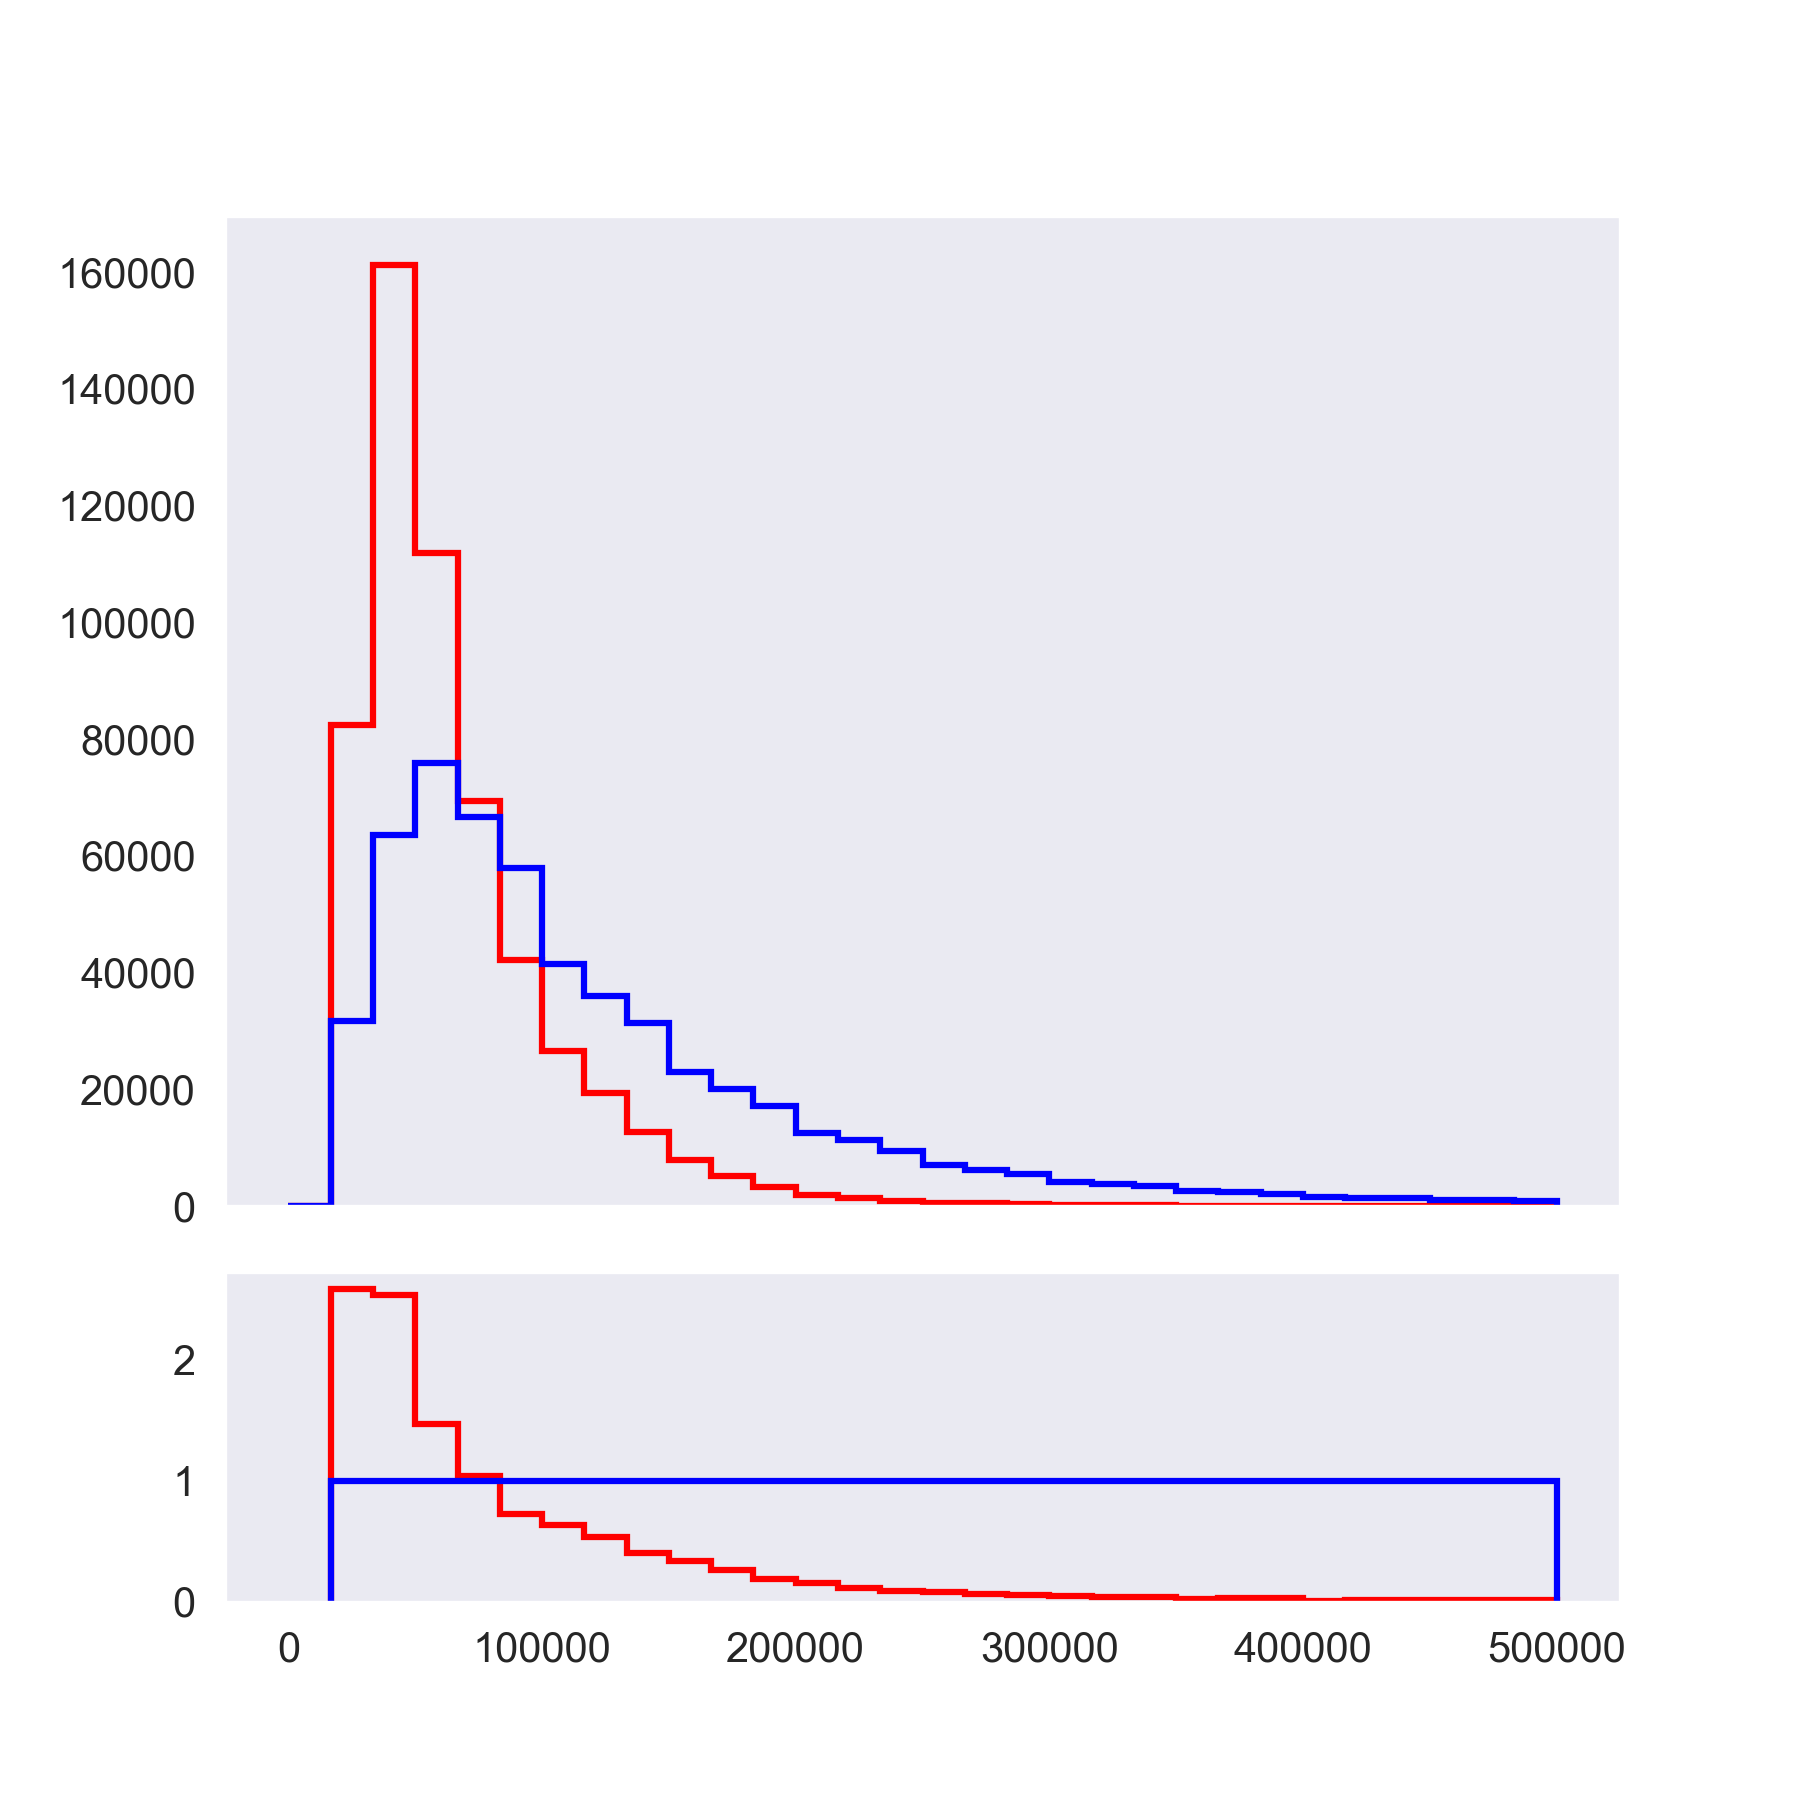
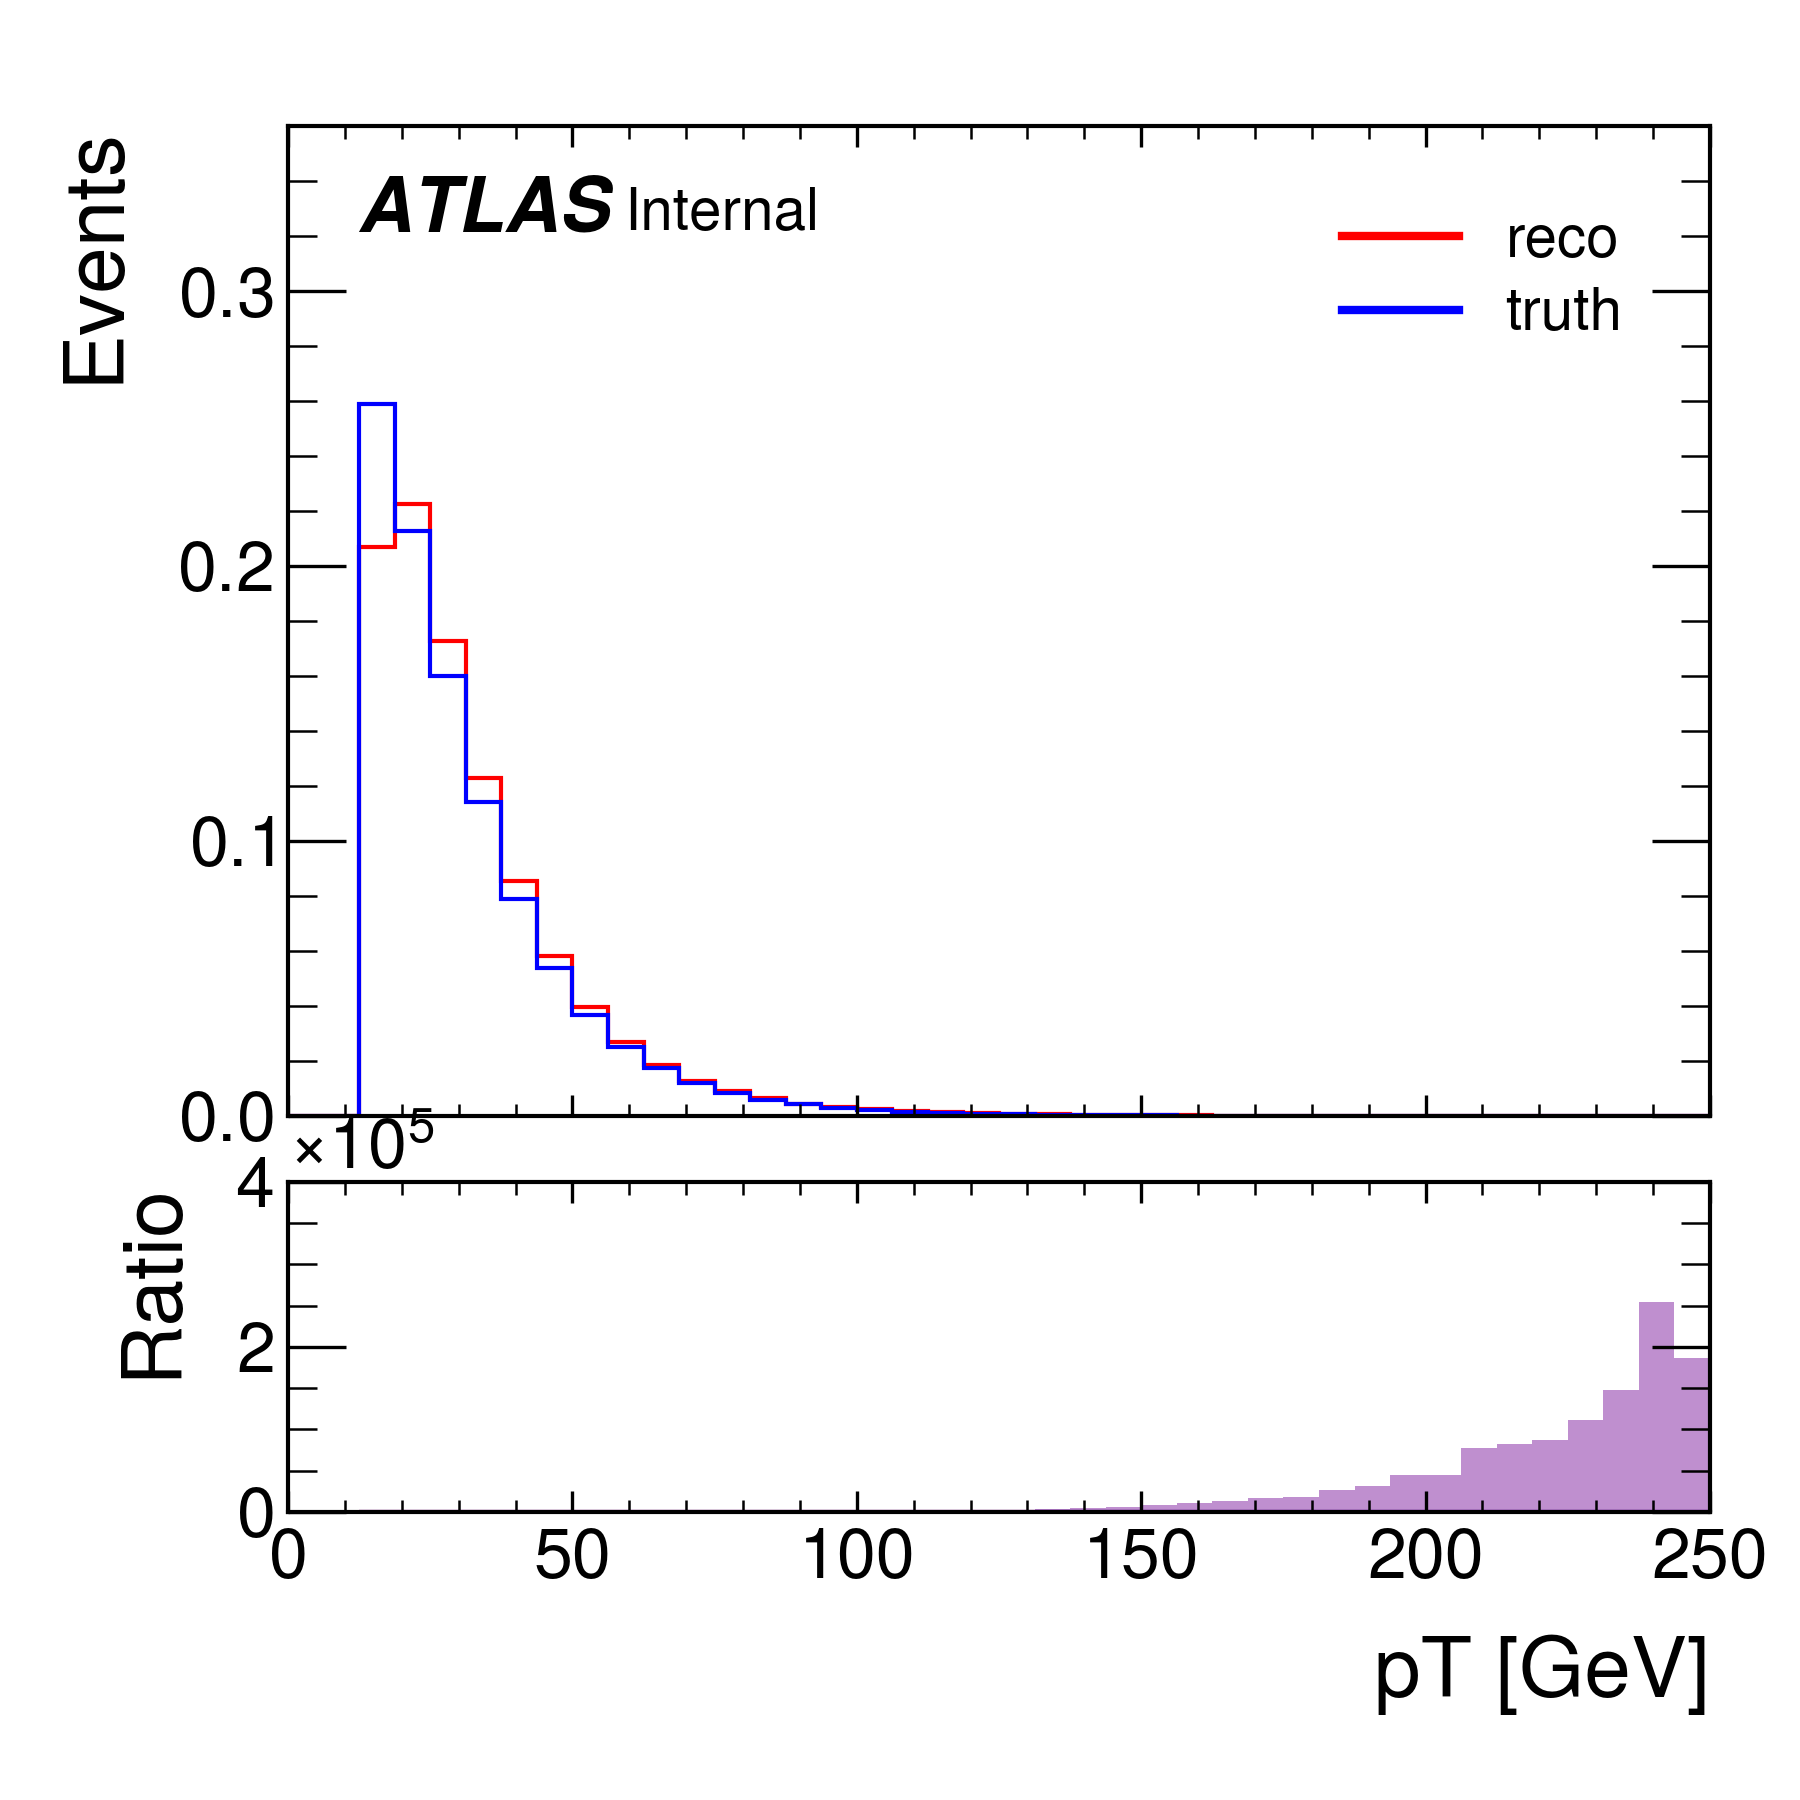
Added axes specifics. Ratio uncertainty for normalised histograms is still an issue

diff --git a/Uproot_based/plot_macros/Plotting.py b/Uproot_based/plot_macros/Plotting.py
@@ -5,6 +5,8 @@ import numpy as np
 from hist.intervals import ratio_uncertainty
 import boost_histogram as bh
 import uproot
+from matplotlib.lines import Line2D
+
 
 from Hist_Wrapper import Histogram_Wrapper, Hist_Object
 
@@ -68,6 +70,10 @@ class HEP_Plot:
             self.Initialise_Seaborn_Plot(**kwargs)
 
 
+    def Customise_Legend(self):
+        pass
+
+
     @staticmethod
     def Steps_Filled_Erros(ax,Hist_Ob):#Histogram,error_up,error_down): # Need to pass error up and error down
 
@@ -75,16 +81,15 @@ class HEP_Plot:
 
         Histogram = Hist_Ob.Histogram 
 
-        hep.histplot(Histogram, ax=ax, stack=False, histtype='step',color=Hist_Ob.colour)
+        hep.histplot(Histogram, ax=ax, stack=False, histtype='step',color=Hist_Ob.colour,label=Hist_Ob.label,lw=1.0)
 
-
+        # Not used
         errps = {'hatch':'////', 'facecolor':'blue', 'lw': 0, 'alpha': 0.4}
-        # errps = {'alpha':0.4}
 
         ax.stairs(
             values=Histogram.values() + Hist_Ob.errors_up,
             baseline=Histogram.values() - Hist_Ob.errors_down,
-            edges=Histogram.axes[0].edges, label='Stat. unc.',fill=True,alpha=0.25,color=Hist_Ob.colour)
+            edges=Histogram.axes[0].edges, fill=True,alpha=0.25,color=Hist_Ob.colour)
 
 
 
@@ -130,11 +135,23 @@ class Ratio_Plot(HEP_Plot):
     @staticmethod
     def Compute_Ratio(hist1,hist2):
         ratio_hist = hist1/hist2
-        ratio_uncertainties = ratio_uncertainty(hist1,hist2,"poisson")
+        ratio_uncertainties = ratio_uncertainty(hist1.view(),hist2.view(),"poisson")
+        # print(ratio_uncertainties)
+        # input()
         return Hist_Object(ratio_hist,ratio_uncertainties)#[0],ratio_uncertainties[1])
+
+    def Axis_Labels(self,dic_of_labels):
+        self.axes[1].set_xlabel(dic_of_labels["x"])
+        self.axes[1].set_ylabel(dic_of_labels["y2"])
+        self.axes[0].set_ylabel(dic_of_labels["y1"])
+
+    def Axis_XTick_Labels(self,labels,**kwargs):
+        # print(self.axes[1].get_xticklabels)
+        # input()
+        self.axes[1].set_xticklabels(labels)
         
 
-    def Make_Plot(self):
+    def Make_Step_Fill_Plot(self):
 
         assert len(self.list_of_histograms) != 0, "No histograms passed to plot" 
 
@@ -144,13 +161,10 @@ class Ratio_Plot(HEP_Plot):
         self.fig = fig
         self.axes = (ax,rax)
 
-
-
         # Select whether to do normalisation
+        legend_elements = []
 
         for H in self.list_of_histograms:
-
-            print(H.branch_name)
 
             if self.Normalised == False:
 
@@ -165,7 +179,12 @@ class Ratio_Plot(HEP_Plot):
                 ratio_obj.Set_Features(colour=H.colour)
                 self.Steps_Filled_Erros(ax=rax,Hist_Ob=ratio_obj)
 
+            # Do the legend part here
+            legend_elements.append(Line2D([0],[0],color=H.colour,lw=2,label=H.label))
 
+        ax.legend(handles=legend_elements)#, loc='center')
+
+        # ax.legend()
         return plt
 
 

diff --git a/Uproot_based/plot_macros/Hist_Wrapper.py b/Uproot_based/plot_macros/Hist_Wrapper.py
@@ -19,6 +19,8 @@ class Hist_Object:
         self.Histogram = Histogram 
         self.errors_up = errors[1]
         self.errors_down = errors[0]
+        # self.colour "black"
+        # self.label = ""
 
         self.Set_Features(**kwargs)
 
@@ -42,6 +44,11 @@ class Histogram_Wrapper:
         self.TTree = tree
         self.branch_name = branch_name
         self.number_of_bins = 26
+        self.normalise = kwargs["normalise"] if "normalise" in kwargs else True
+
+        # Plot features
+        self.colour = kwargs["colour"] if "colour" in kwargs else None
+        self.label  = kwargs["label"]  if "label"  in kwargs else None
 
         # Extract histogram for Uproot file TTree
         self.df = self.Branch2DF(self.TTree,self.branch_name)
@@ -50,15 +57,19 @@ class Histogram_Wrapper:
 
         # Generate boost_histogram, and wrap with errors
         boost_hist = self.Generate_Histogram(self.df,self.binning)
+
+        # print(type(boost_hist.view()))
+        # input()
+
         boost_hist_errors = self.errors(boost_hist)
-        self.UnNorm_Hist = Hist_Object(boost_hist,boost_hist_errors)
+        self.UnNorm_Hist = Hist_Object(boost_hist,boost_hist_errors,colour=self.colour,label=self.label)
        
        # Generate normalised histogram, and wrap with errors
-        self.Norm_Hist    = self.Do_Normalisation(boost_hist)
+        if self.normalise:
+            self.Norm_Hist    = self.Do_Normalisation(boost_hist)
+            self.Norm_Hist.Set_Features(colour=self.colour,label=self.label)
 
-        # Plot features
-        self.colour = kwargs["colour"] if "colour" in kwargs else None
-        self.UnNorm_Hist.colour,self.Norm_Hist.colour = self.colour,self.colour
+        # self.UnNorm_Hist.colour,self.Norm_Hist.colour = self.colour,self.colour
 
 
     def Generate_Binning(self,kwargs):
@@ -112,8 +123,8 @@ class Histogram_Wrapper:
 
         '''Performs normalisation of histogram '''
 
-        Normalised_Histogram     = boost_hist *(1/boost_hist.sum())
-        Normalised_Uncertainties = ratio_uncertainty(boost_hist , boost_hist.sum(),"poisson")
+        Normalised_Histogram     = boost_hist/boost_hist.sum()
+        Normalised_Uncertainties = ratio_uncertainty(boost_hist.view() , boost_hist.sum(),"poisson")
 
         return Hist_Object(Normalised_Histogram,Normalised_Uncertainties)
 

diff --git a/Uproot_based/plot_macros/example.py b/Uproot_based/plot_macros/example.py
@@ -10,20 +10,26 @@ def main():
     file1 = uproot.open("/home/ethan/Documents/Qualification_Task/Full_Tests/ttbar/Inclusive_Smearings/ttbar_LEPTONS_WITH_EFFICIENCY_july25.root")
     tree1 = file1["smeared"]
 
-    binning = np.linspace(0,500e3,31)
+    binning = np.linspace(0,250e3,16)
 
-    H_mu_pt = Histogram_Wrapper(tree1,"mu_pt",binning=binning,colour="red")#,normalise=False)#,AutoBin=True)
-    H_mu_E  = Histogram_Wrapper(tree1,"mu_e" ,binning=binning,colour="blue")#,normalise=False)
+    H_mu_pt = Histogram_Wrapper(tree1,"mu_pt",binning=binning,colour="red" ,label="1",normalise=True)#,AutoBin=True)
+    H_mu_E  = Histogram_Wrapper(tree1,"mu_e" ,binning=binning,colour="blue",label="2",normalise=True)
 
     # Initialise the plot
     x = Ratio_Plot("plot1",list_of_histograms=[H_mu_pt,H_mu_E],divisor=H_mu_E,plot_normalised=False)
-    x.Initalise_Plot_Design("Seaborn")
+    x.Initalise_Plot_Design("ATLAS")
 
     # Returns the plt object so adjustments can be made here
-    plt = x.Make_Plot()
+    plt = x.Make_Step_Fill_Plot()
     x.Add_ATLAS_Label("Internal")
+    x.Axis_Labels({"x": "pT [GeV]","y1":"Events","y2":"Ratio"})
+    x.Axis_XTick_Labels([0,50,100,150,200,250])
+
+    # plt.show()
+    # input()
 
     plt.savefig("plot2_test.png",dpi=300)
+    print("Plot generated and saved.")
 
 
 main()

diff --git a/Uproot_based/plot_macros/exampleQT.py b/Uproot_based/plot_macros/exampleQT.py
@@ -1,0 +1,38 @@
+import numpy as np
+import uproot
+
+from Hist_Wrapper import Histogram_Wrapper
+from Plotting import Ratio_Plot
+
+
+def main():
+
+    file1 = uproot.open("~/Documents/Qualification_Task/TTbar_Samples/ttbar_dec15_reco_even.root")
+    tree1 = file1["reco_even"]
+
+    file2 = uproot.open("~/Documents/Qualification_Task/TTbar_Samples/ttbar_dec15_particleLevel_even.root")
+    tree2 = file2["particleLevel_even"]
+
+    binning = np.linspace(0,500e3,41)
+
+    H_mu_pt = Histogram_Wrapper(tree1,"mu_pt",binning=binning,colour="red" ,label="reco",normalise=True)#,AutoBin=True)
+    H_mu_E  = Histogram_Wrapper(tree2,"mu_pt" ,binning=binning,colour="blue",label="truth",normalise=True)
+
+    # Initialise the plot
+    x = Ratio_Plot("plot1",list_of_histograms=[H_mu_pt,H_mu_E],divisor=H_mu_E,plot_normalised=True)
+    x.Initalise_Plot_Design("ATLAS")
+
+    # Returns the plt object so adjustments can be made here
+    plt = x.Make_Step_Fill_Plot()
+    x.Add_ATLAS_Label("Internal")
+    x.Axis_Labels({"x": "pT [GeV]","y1":"Events","y2":"Ratio"})
+    x.Axis_XTick_Labels([0,50,100,150,200,250])
+
+    # plt.show()
+    # input()
+
+    plt.savefig("plot2_test.png",dpi=300)
+    print("Plot generated and saved.")
+
+
+main()
